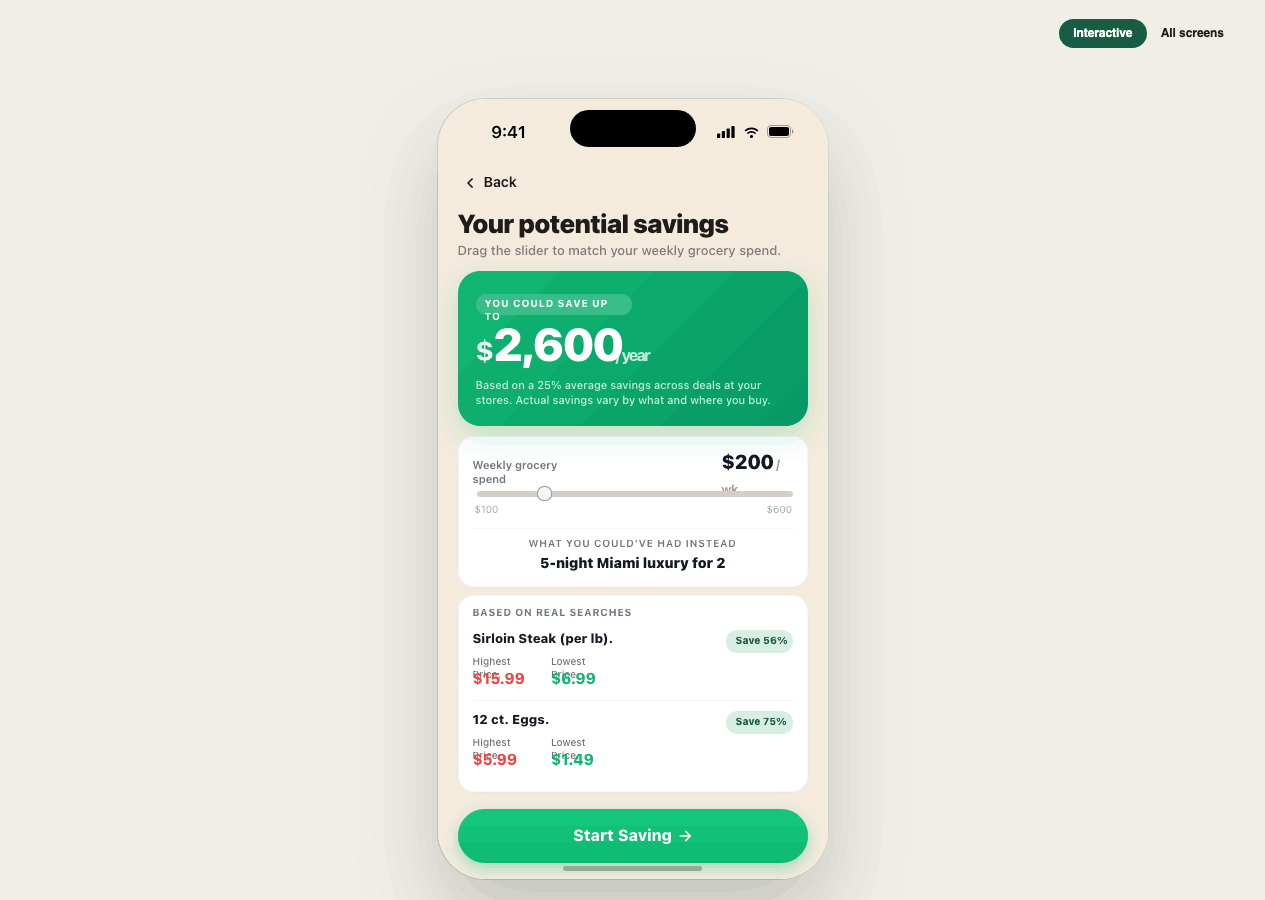
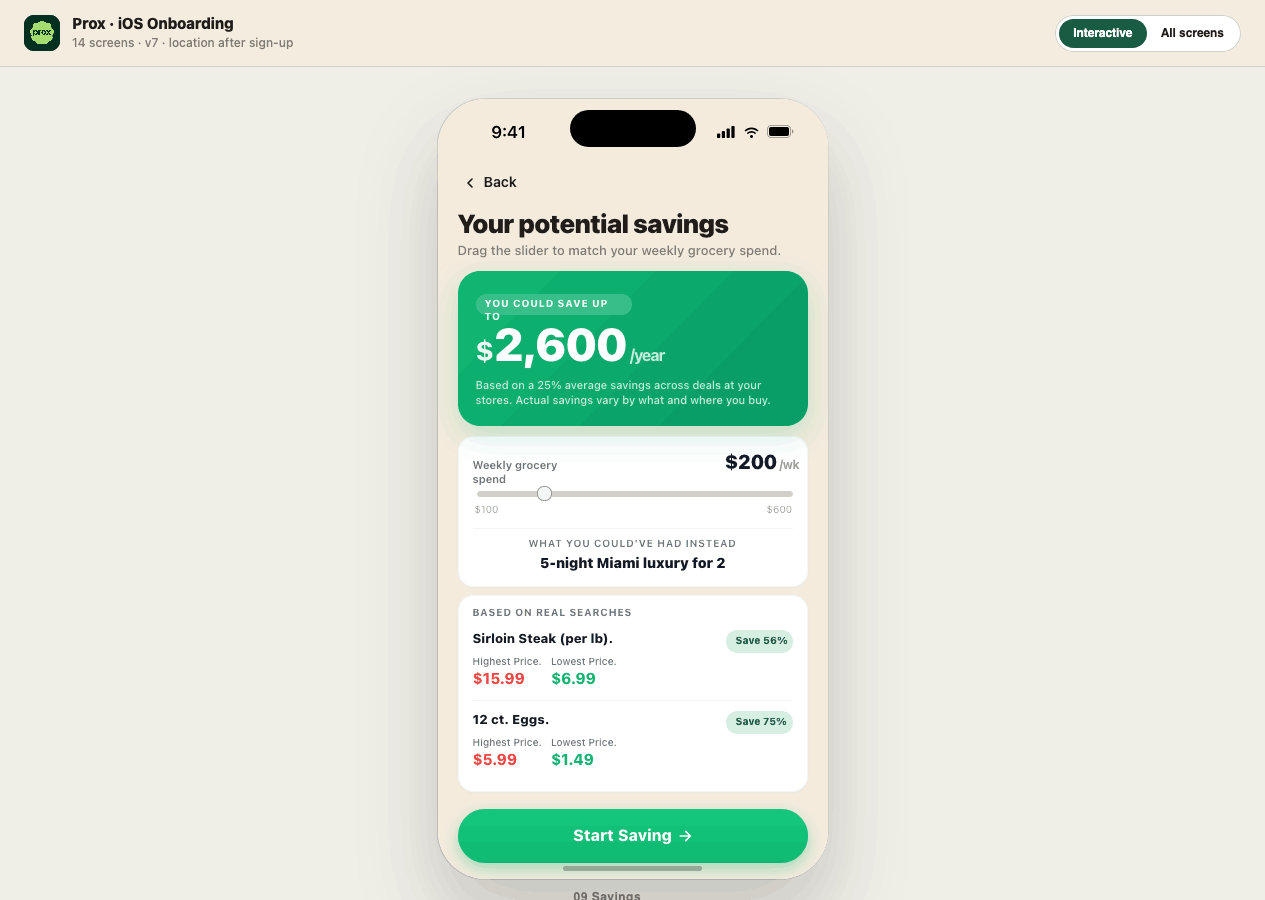
Update savings preview screenshot and global CSS

diff --git a/css/home.css b/css/home.css
@@ -20,6 +20,20 @@
     to   { opacity: 1; }
 }
 
+/* Cyan scan line sweeps down work-side once after load */
+@keyframes work-scan {
+    0%   { transform: translateY(-2px); opacity: 0; }
+    6%   { opacity: 1; }
+    88%  { opacity: 0.75; }
+    100% { transform: translateY(100vh); opacity: 0; }
+}
+
+/* First tile arrow pulses twice to beckon the user */
+@keyframes arrow-beckon {
+    0%, 100% { transform: translateX(0);  opacity: 0.45; }
+    50%       { transform: translateX(7px); opacity: 1; }
+}
+
 /* ── VIEWPORT SHELL ── */
 .viewport {
     width: 100vw;
@@ -28,9 +42,11 @@
     display: grid;
     grid-template-rows: 60px 1fr 44px;
     position: relative;
-    /* Subtle red glow from the hero side only */
+    /* Red anchor left, cyan ambient lights right and bottom */
     background:
-        radial-gradient(ellipse at 8% 50%, rgba(204, 27, 34, 0.09) 0%, transparent 52%),
+        radial-gradient(ellipse at 8%  50%, rgba(204, 27, 34,  0.09)  0%, transparent 52%),
+        radial-gradient(ellipse at 94% 14%, rgba(11,  170, 204, 0.065) 0%, transparent 40%),
+        radial-gradient(ellipse at 78% 96%, rgba(11,  170, 204, 0.042) 0%, transparent 35%),
         var(--deep);
 }
 
@@ -57,7 +73,7 @@
     transition: opacity 0.25s ease;
 }
 
-.identity-sigil:hover { opacity: 0.65; }
+.identity-sigil:hover { color: var(--cyan); opacity: 1; }
 
 .topbar-nav {
     display: flex;
@@ -83,7 +99,7 @@
     left: 0;
     width: 0;
     height: 1px;
-    background: var(--spice);
+    background: var(--cyan);
     transition: width 0.25s ease;
 }
 
@@ -92,9 +108,14 @@
     color: var(--text-primary);
 }
 
-.nav-trigger:hover::after,
+.nav-trigger:hover::after {
+    width: 100%;
+}
+
+/* Active panel trigger: red instead of cyan — action vs discovery */
 .nav-trigger.active::after {
     width: 100%;
+    background: var(--spice);
 }
 
 /* ── MAIN STAGE ── */
@@ -164,7 +185,7 @@
     transform: translate(var(--arc-inner-x), var(--arc-inner-y));
 }
 
-/* Top-right corner bracket (repurposed from arc-ring--far) */
+/* Top-right corner bracket — cyan: discovery / secondary */
 .arc-ring--far {
     position: absolute;
     top: 2.5rem;
@@ -174,15 +195,15 @@
     height: 56px;
     border-radius: 0;
     border: none;
-    border-top: 1.5px solid rgba(204, 27, 34, 0.28);
-    border-right: 1.5px solid rgba(204, 27, 34, 0.28);
+    border-top: 1.5px solid rgba(11, 170, 204, 0.26);
+    border-right: 1.5px solid rgba(11, 170, 204, 0.26);
     animation: none;
     pointer-events: none;
     z-index: 0;
     transform: translate(var(--arc-far-x), var(--arc-far-y));
 }
 
-/* Bottom-left corner bracket (repurposed from arc-ring--close) */
+/* Bottom-left corner bracket — cyan: discovery / secondary */
 .arc-ring--close {
     position: absolute;
     bottom: 2.5rem;
@@ -192,8 +213,8 @@
     height: 56px;
     border-radius: 0;
     border: none;
-    border-bottom: 1.5px solid rgba(204, 27, 34, 0.28);
-    border-left: 1.5px solid rgba(204, 27, 34, 0.28);
+    border-bottom: 1.5px solid rgba(11, 170, 204, 0.26);
+    border-left: 1.5px solid rgba(11, 170, 204, 0.26);
     animation: none;
     pointer-events: none;
     z-index: 0;
@@ -225,7 +246,7 @@
     position: relative;
     z-index: 1;
     animation: marathon-appear 0.9s var(--ease-out) 0.45s both;
-}
+    }
 
 .hero-tagline {
     font-family: var(--font-body);
@@ -246,6 +267,30 @@
     justify-content: center;
     border-left: 1px solid var(--glass-border-dim);
     padding: 0 3rem;
+    position: relative;
+    overflow: hidden;
+}
+
+/* Single-shot cyan scan line — draws the eye to the work section on load */
+.work-side::before {
+    content: '';
+    position: absolute;
+    top: 0;
+    left: 0;
+    right: 0;
+    height: 1px;
+    background: linear-gradient(
+        to right,
+        transparent 0%,
+        rgba(11, 170, 204, 0.7) 20%,
+        rgba(11, 170, 204, 0.95) 50%,
+        rgba(11, 170, 204, 0.7) 80%,
+        transparent 100%
+    );
+    transform: translateY(-2px);
+    animation: work-scan 1.7s var(--ease-out) 1.4s both;
+    pointer-events: none;
+    z-index: 10;
 }
 
 .work-label {
@@ -268,6 +313,11 @@
 .work-tile:nth-child(2) { animation: marathon-appear 0.7s var(--ease-out) 0.78s both; }
 .work-tile:nth-child(3) { animation: marathon-appear 0.7s var(--ease-out) 0.94s both; }
 .work-tile:nth-child(4) { animation: marathon-appear 0.7s var(--ease-out) 1.10s both; }
+
+/* First tile arrow beckons twice after all tiles have settled */
+.work-tile:nth-child(1) .tile-arrow {
+    animation: arrow-beckon 1s ease 2.4s 2;
+}
 
 .work-tile {
     display: grid;
@@ -377,8 +427,12 @@
 }
 
 .work-tile:hover .tile-arrow {
-    transform: translateX(4px);
-    color: var(--spice);
+    transform: translateX(6px);
+    color: var(--cyan);
+}
+
+.work-tile:hover .tile-preview {
+    border-color: var(--cyan-border);
 }
 
 /* ── VIEWPORT FOOTER ── */
@@ -451,7 +505,7 @@
     right: 0;
     width: 52%;
     height: 100%;
-    background: rgba(8, 8, 8, 0.97);
+    background: rgba(5, 7, 12, 0.97);
     transform: translateX(100%);
     transition: transform 0.6s var(--ease-io);
     z-index: 90;

diff --git a/css/global.css b/css/global.css
@@ -3,12 +3,12 @@
    Tactical Telemetry / Dark Terminal Mode
    ============================================ */
 :root {
-    /* Core palette — deactivated CRT */
-    --void:          #030303;
-    --deep:          #0A0A0A;
-    --mid:           #111111;
-    --surface:       #181818;
-    --surface-high:  #202020;
+    /* Core palette — deep navy-black */
+    --void:          #040608;
+    --deep:          #070A10;
+    --mid:           #0D1018;
+    --surface:       #141820;
+    --surface-high:  #1B2028;
 
     /* Text — white phosphor */
     --text-primary:  #EAEAE4;
@@ -20,6 +20,13 @@
     --spice-bright:  #E82A32;
     --spice-dim:     #801218;
     --spice-glow:    rgba(204, 27, 34, 0.14);
+
+    /* Cyan / Cerulean — secondary accent, discovery / navigation */
+    --cyan:           #0BAACC;
+    --cyan-bright:    #1FCAE8;
+    --cyan-dim:       rgba(11, 170, 204, 0.16);
+    --cyan-glow:      rgba(11, 170, 204, 0.06);
+    --cyan-border:    rgba(11, 170, 204, 0.22);
 
     /* Secondary */
     --teal:          #1C3A4A;
